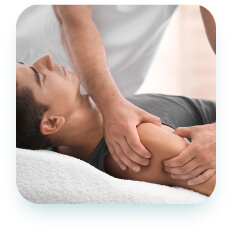
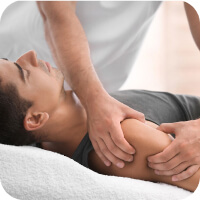
feat: Added services component

diff --git a/index.html b/index.html
@@ -84,6 +84,8 @@
           <ul class="services__list">
             <li class="services__item">
               <img
+                width="200"
+                height="200"
                 alt="services-img"
                 class="services__item-img"
                 src="./assets/images/jpg/services-img-1.jpg"
@@ -101,6 +103,8 @@
             </li>
             <li class="services__item">
               <img
+                width="200"
+                height="200"
                 alt="services-img"
                 class="services__item-img"
                 src="./assets/images/jpg/services-img-2.jpg"
@@ -117,6 +121,8 @@
             </li>
             <li class="services__item">
               <img
+                width="200"
+                height="200"
                 alt="services-img"
                 class="services__item-img"
                 src="./assets/images/jpg/services-img-3.jpg"
@@ -135,6 +141,8 @@
             </li>
             <li class="services__item">
               <img
+                width="200"
+                height="200"
                 alt="services-img"
                 class="services__item-img"
                 src="./assets/images/jpg/services-img-4.jpg"
@@ -152,7 +160,7 @@
               </div>
             </li>
           </ul>
-          <a class="services-enrollment enrollment" href="#">
+          <a class="services-entrollment entrollment" href="#">
             Qabulga yozilish
           </a>
         </div>

diff --git a/css/components/services.css b/css/components/services.css
@@ -1,0 +1,61 @@
+.services {
+  padding: 120px 0;
+}
+
+.services__list {
+  margin: 0 auto;
+  max-width: 864px;
+}
+
+.services__item {
+  display: flex;
+  margin-bottom: 80px;
+}
+
+.services__container {
+  text-align: center;
+}
+
+.services-name {
+  font-size: 36px;
+  font-weight: 700;
+  line-height: 120%;
+  margin-bottom: 56px;
+  color: var(--nav__link-color);
+  font-family: "Open Sans Condensed", sans-serif, "Arial";
+}
+
+.services__list {
+  text-align: left;
+}
+
+.services__item-img {
+  margin-right: 64px;
+  border-radius: 24px;
+  -o-border-radius: 24px;
+  -ms-border-radius: 24px;
+  -moz-border-radius: 24px;
+  height: 200px;
+  width: 200px;
+  -webkit-border-radius: 24px;
+}
+
+.services__content {
+  max-width: 600px;
+}
+
+.services__content-heading {
+  margin: 24px 0;
+  font-size: 24px;
+  font-weight: 700;
+  line-height: 120%;
+  color: var(--nav__link-color);
+  font-family: "Open Sans Condensed", sans-serif, "Arial";
+}
+
+.services__content-text {
+  font-size: 16px;
+  font-weight: 400;
+  line-height: 150%;
+  color: var(--services__text-color);
+}

diff --git a/css/components/variables.css b/css/components/variables.css
@@ -1,6 +1,8 @@
 :root {
   --nav__link-color: #222;
   --header__bg-color: #FFFFFF;
+  --services__text-color: #444;
   --hero__background-color: #0EB4C1;
   --nav-entrollment__bg-color: #de2e54;
+  --services-img-box-shadow__color: rgba(0, 107, 116, 0.3);
 }

diff --git a/css/components/hero.css b/css/components/hero.css
@@ -9,7 +9,7 @@
 }
 
 .hero__content {
-  width: 500px;
+  max-width: 500px;
   padding: 120px 0;
 }
 
@@ -34,4 +34,5 @@
   width: 423px;
   height: 506px;
   margin-top: 30px;
+  object-fit: cover;
 }
